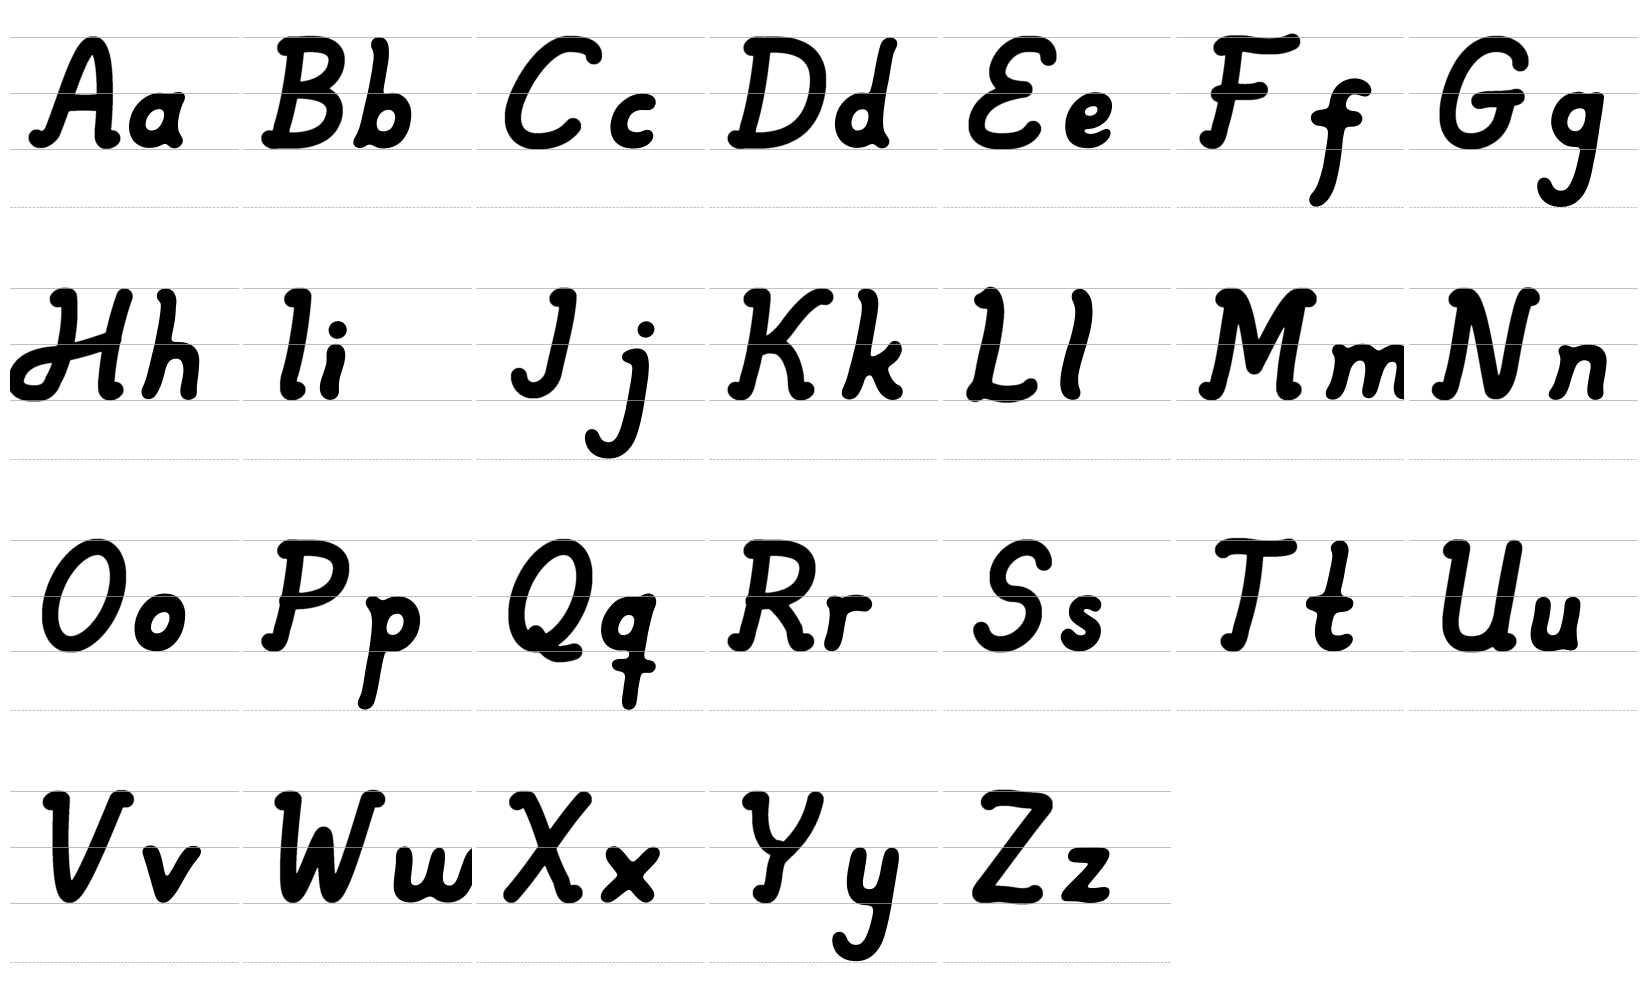
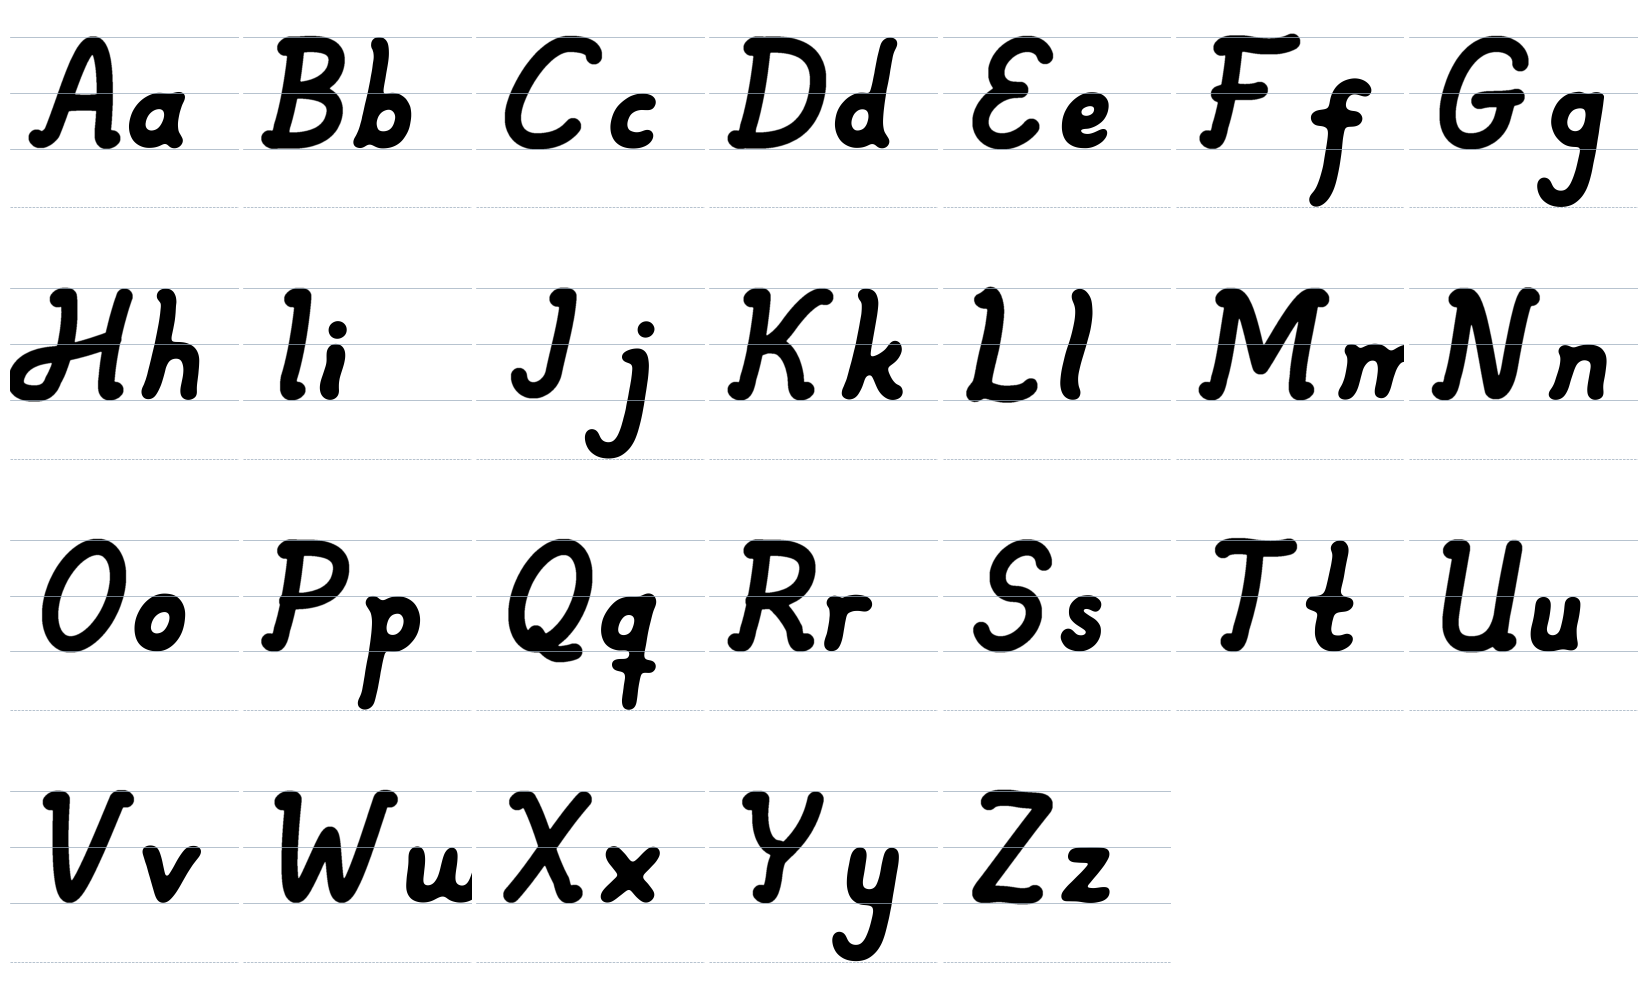
Rundare E (två runda bågar med kort tunga), bredare M och W enligt typografiska proportioner
Claude-Session: https://claude.ai/code/session_01G3Fa1qrTuHzte3kfXkaDtX

diff --git a/bokstaver/versaler.py b/bokstaver/versaler.py
@@ -152,14 +152,14 @@ def D():
                   ((2.6, 0.6), (1.7, LO - 0.1), (0.35, LO)))]
 
 def E():
-    """E som en spegelvänd trea (Ɛ): två runda bågar som möts i mitten."""
-    return [kedja((2.2, 3.25), ((2.05, HI + 0.05), (1.65, HI + OV), (1.3, HI + OV)),
-                  ((0.75, HI + OV), (0.45, 3.3), (0.48, 2.85)),
-                  ((0.52, 2.4), (1.0, 2.12), (1.65, 2.12))),
-            kedja((1.65, 2.12), ((0.85, 2.0), (0.25, 1.7), (0.25, 1.1)),
-                  ((0.25, 0.45), (0.75, LO - OV), (1.35, LO - OV)),
-                  ((1.85, LO - OV), (2.25, 0.35), (2.35, 0.7)))]
-
+    """Runt E som en spegelvänd trea (Ɛ): två runda bågar som möts i mitten
+    med en kort, mjuk tunga."""
+    mitt = 2.1
+    ry1 = (HI + OV - mitt) / 2; ry2 = (mitt - (LO - OV)) / 2
+    ovre = bage_ellips(1.3, mitt + ry1, 0.86, ry1, 28, 270)
+    nedre = bage_ellips(1.36, mitt - ry2, 1.0, ry2, 90, 335)
+    tunga = (1.5, mitt)
+    return [np.vstack([ovre, [tunga]]), np.vstack([[tunga], nedre])]
 
 def F():
     return stapel(0.55, topp=False, fot="snirkel") + [
@@ -267,12 +267,13 @@ def L_mask(mapp, under_baslinjen=0.04, vind=0.0):
 
 
 def M():
-    """Symmetriskt M: en liten knorr överst på båda sidor. Diagonalerna går
-    över topparna och ut i knorrarna; staplarna hänger ner från topparna."""
-    v, h = 0.55, 2.85
+    """Symmetriskt M med en liten knorr överst på båda sidor; brett, som M ska
+    vara (ca 1,25 x O). Diagonalerna går över topparna och ut i knorrarna."""
+    v, h = 0.55, 3.3
+    dal = (v + h) / 2
     over = kedja((v - 0.38, HI - 0.1), ((v - 0.3, HI + 0.04), (v - 0.12, HI + 0.04), (v, HI)),
-                 ((0.95, HI - 0.02), (1.45, 1.9), (1.7, 1.2)),
-                 ((1.95, 1.9), (2.45, HI - 0.02), (h, HI)),
+                 ((v + 0.45, HI - 0.02), (dal - 0.35, 1.9), (dal, 1.2)),
+                 ((dal + 0.35, 1.9), (h - 0.45, HI - 0.02), (h, HI)),
                  ((h + 0.12, HI + 0.04), (h + 0.3, HI + 0.04), (h + 0.38, HI - 0.1)))
     vstam = kedja((v, HI), ((0.52, 2.7), (0.62, 1.5), (0.52, 0.8)))
     hstam = kedja((h, HI), ((h + 0.03, 2.7), (h - 0.07, 1.5), (h + 0.03, 0.8)))
@@ -335,12 +336,14 @@ def V():
                   ((2.36, HI + 0.07), (2.5, HI + 0.07), (2.6, HI + 0.0)))]
 
 def W():
+    """Brett W (bredast av versalerna, som typografin säger)."""
     return [entre(0.25),
-            kedja((0.25, HI), ((0.35, 2.0), (0.55, LO - 0.08), (0.85, LO)),
-                  ((1.1, LO + 0.05), (1.38, 2.3), (1.55, 2.45)),
-                  ((1.72, 2.3), (1.95, LO - 0.05), (2.25, LO)),
-                  ((2.55, LO + 0.08), (2.8, 2.6), (2.95, HI)),
-                  ((3.01, HI + 0.07), (3.15, HI + 0.07), (3.25, HI + 0.0)))]
+            kedja((0.25, HI), ((0.37, 2.0), (0.62, LO - 0.08), (0.97, LO)),
+                  ((1.25, LO + 0.05), (1.58, 2.3), (1.78, 2.45)),
+                  ((1.98, 2.3), (2.25, LO - 0.05), (2.6, LO)),
+                  ((2.95, LO + 0.08), (3.22, 2.6), (3.4, HI)),
+                  ((3.46, HI + 0.07), (3.6, HI + 0.07), (3.7, HI + 0.0)))]
+
 
 def X():
     return [entre(0.3), vag((0.3, HI), (2.0, 0.8), 0.06), flick(2.0, 0.8, 0.45),
